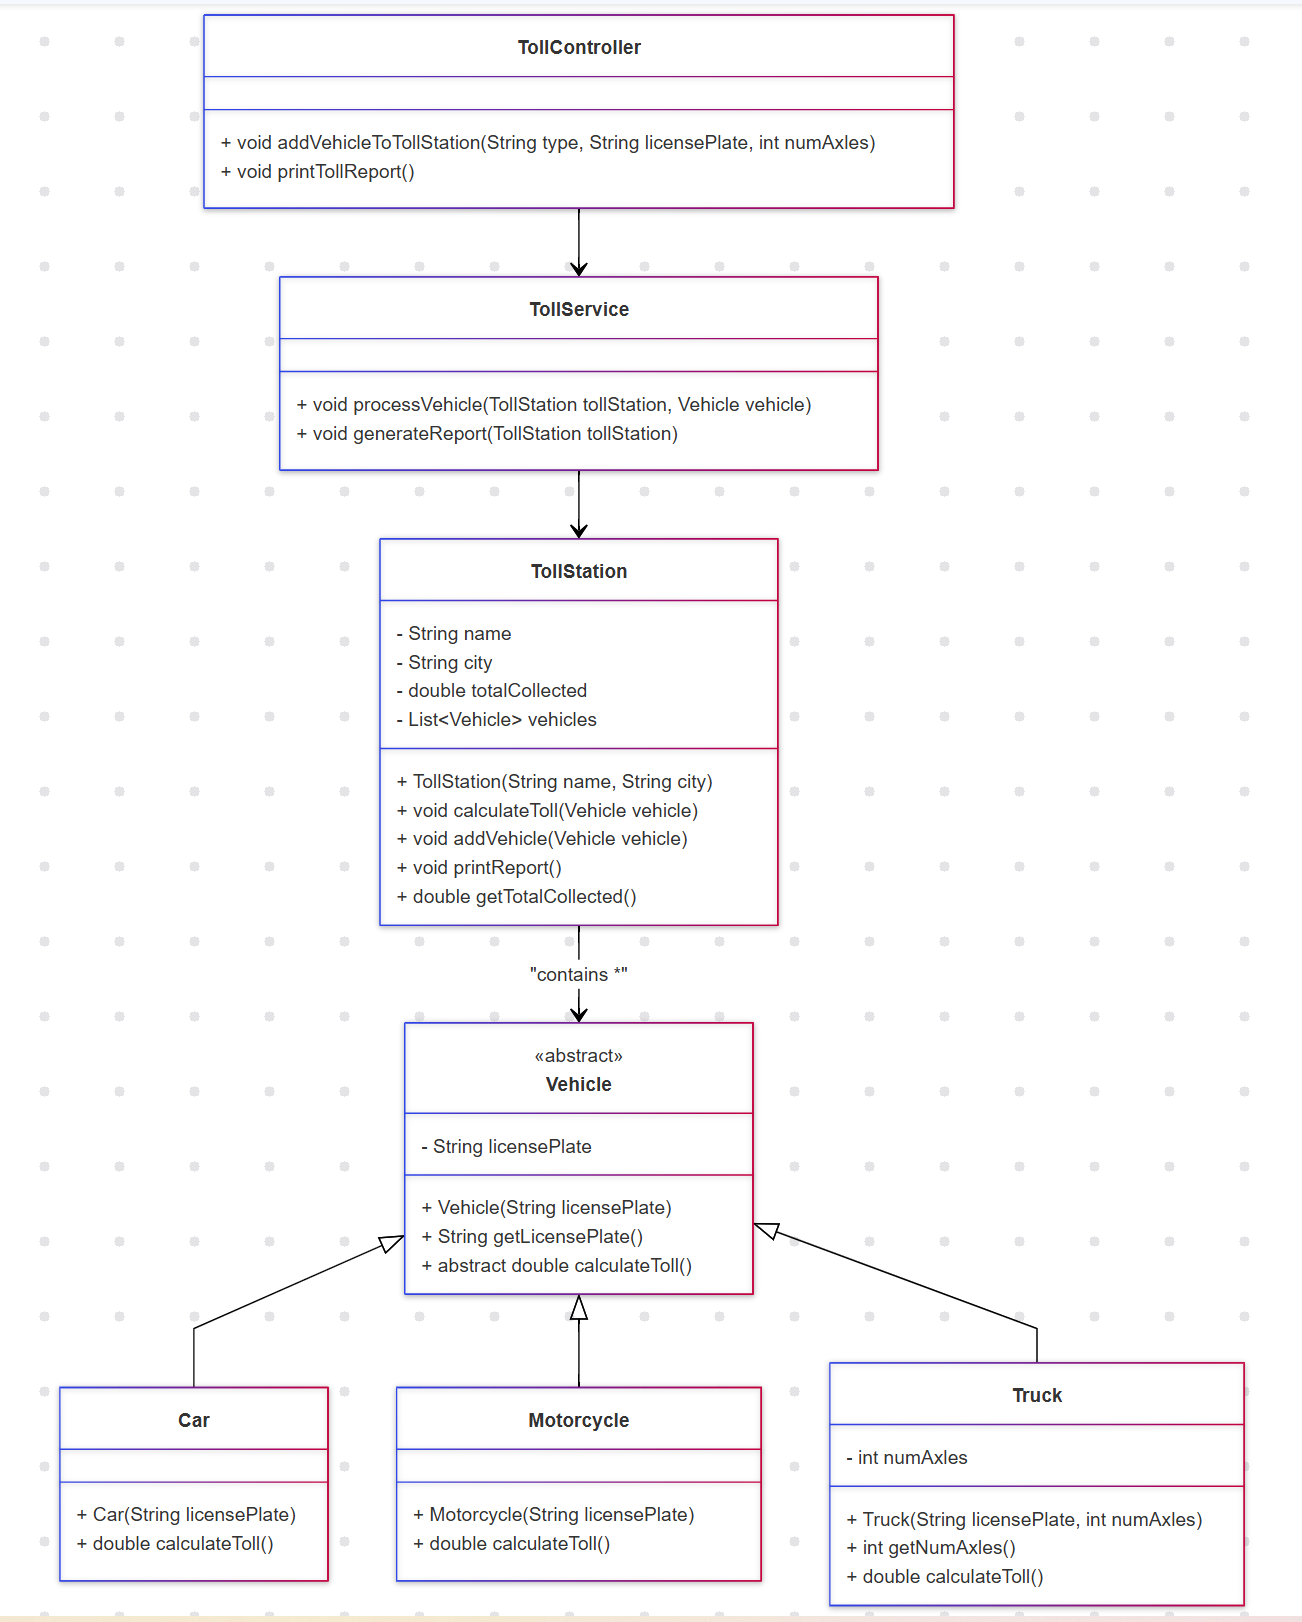
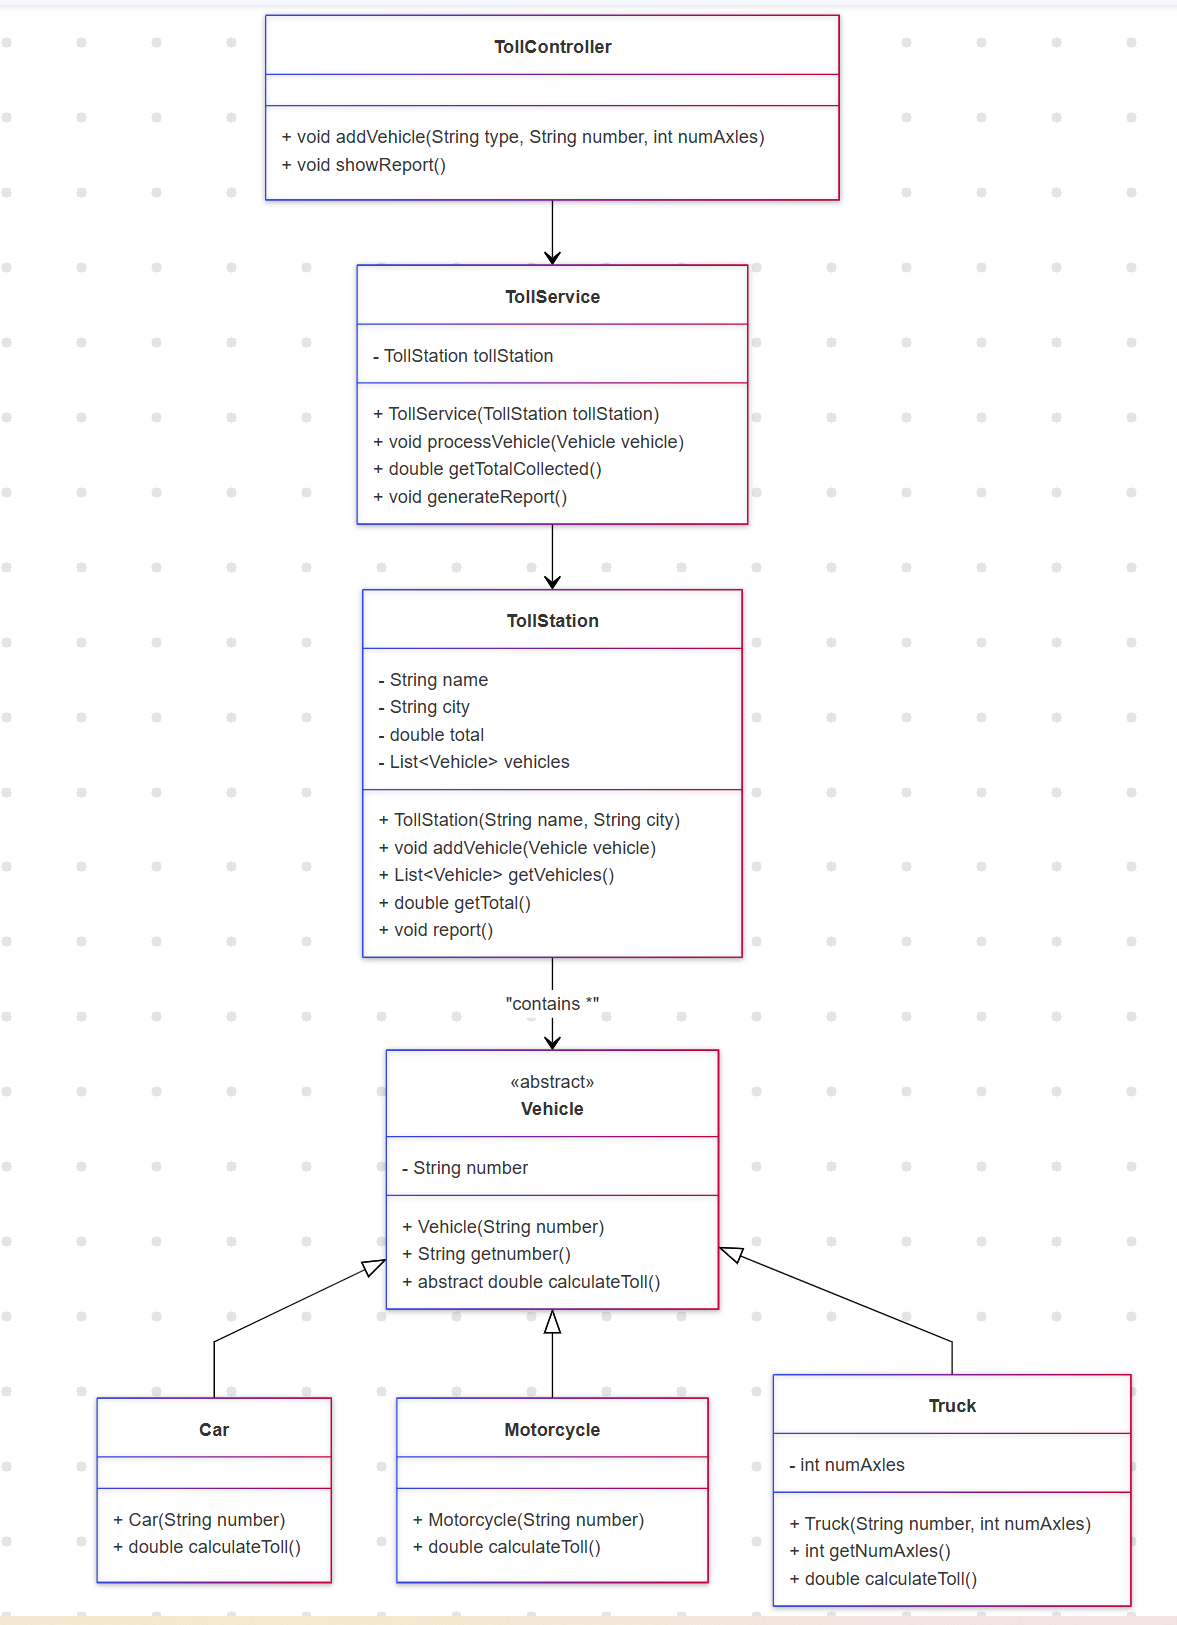
add service and controller + tests, update diagram

diff --git a/src/test/java/dev/nyanchuk/controller/TollControllerTest.java b/src/test/java/dev/nyanchuk/controller/TollControllerTest.java
@@ -1,0 +1,68 @@
+package dev.nyanchuk.controller;
+
+import dev.nyanchuk.model.*;
+import dev.nyanchuk.service.*;
+import org.junit.jupiter.api.BeforeEach;
+import org.junit.jupiter.api.Test;
+
+import static org.junit.jupiter.api.Assertions.*;
+
+public class TollControllerTest {
+
+    private TollStation tollStation;
+    private TollService tollService;
+    private TollController tollController;
+
+    @BeforeEach
+    public void setUp() {
+        tollStation = new TollStation("Highway Toll", "Los Angeles");
+        tollService = new TollService(tollStation);
+        tollController = new TollController(tollService);
+    }
+
+    @Test
+    public void testAddCar() {
+        tollController.addVehicle("car", "CAR123", 0);
+
+        assertEquals(100.0, tollStation.getTotal());
+        assertEquals(1, tollStation.getVehicles().size());
+        assertEquals("CAR123", tollStation.getVehicles().get(0).getNumber());
+    }
+
+    @Test
+    public void testAddMotorcycle() {
+        tollController.addVehicle("motorcycle", "MOTO456", 0);
+
+        assertEquals(50.0, tollStation.getTotal());
+        assertEquals(1, tollStation.getVehicles().size());
+        assertEquals("MOTO456", tollStation.getVehicles().get(0).getNumber());
+    }
+
+    @Test
+    public void testAddTruck() {
+        tollController.addVehicle("truck", "TRUCK789", 4);
+
+        assertEquals(200.0, tollStation.getTotal());
+        assertEquals(1, tollStation.getVehicles().size());
+        assertEquals("TRUCK789", tollStation.getVehicles().get(0).getNumber());
+    }
+
+    @Test
+    public void testInvalidVehicle() {
+        Exception exception = assertThrows(IllegalArgumentException.class, () -> {
+            tollController.addVehicle("bike", "BIKE001", 0);
+        });
+
+        assertEquals("Unknown vehicle type: bike", exception.getMessage());
+    }
+
+    @Test
+    public void testShowReport() {
+        tollController.addVehicle("car", "CAR001", 0);
+        tollController.addVehicle("motorcycle", "MOTO002", 0);
+
+        tollController.showReport();
+
+        assertEquals(150.0, tollStation.getTotal());
+    }
+}

diff --git a/src/test/java/dev/nyanchuk/service/TollServiceTest.java b/src/test/java/dev/nyanchuk/service/TollServiceTest.java
@@ -1,0 +1,47 @@
+package dev.nyanchuk.service;
+
+import dev.nyanchuk.model.*;
+import org.junit.jupiter.api.BeforeEach;
+import org.junit.jupiter.api.Test;
+
+import static org.junit.jupiter.api.Assertions.*;
+
+public class TollServiceTest {
+
+    private TollStation tollStation;
+    private TollService tollService;
+
+    @BeforeEach
+    public void setUp() {
+        tollStation = new TollStation("Main Gate", "New York");
+        tollService = new TollService(tollStation);
+    }
+
+    @Test
+    public void testProcessVehicle() {
+        Vehicle car = new Car("CAR001");
+        tollService.processVehicle(car);
+
+        assertEquals(100.0, tollService.getTotalCollected());
+        assertEquals(1, tollStation.getVehicles().size());
+        assertEquals(car, tollStation.getVehicles().get(0));
+    }
+
+    @Test
+    public void testTotalCollected() {
+        tollService.processVehicle(new Car("CAR001"));
+        tollService.processVehicle(new Motorcycle("MOTO001"));
+        tollService.processVehicle(new Truck("TRUCK001", 3));
+
+        assertEquals(300.0, tollService.getTotalCollected());
+    }
+
+    @Test
+    public void testGenerateReport() {
+        tollService.processVehicle(new Car("CAR001"));
+        tollService.processVehicle(new Motorcycle("MOTO001"));
+        tollService.generateReport();
+
+        assertEquals(150.0, tollService.getTotalCollected());
+    }
+}

diff --git a/src/main/java/dev/nyanchuk/controller/TollController.java b/src/main/java/dev/nyanchuk/controller/TollController.java
@@ -1,0 +1,34 @@
+package dev.nyanchuk.controller;
+
+import dev.nyanchuk.model.*;
+import dev.nyanchuk.service.*;
+
+public class TollController {
+    private final TollService tollService;
+
+    public TollController(TollService tollService) {
+        this.tollService = tollService;
+    }
+
+    public void addVehicle(String type, String number, int axles) {
+        Vehicle vehicle;
+        switch (type.toLowerCase()) {
+            case "car":
+                vehicle = new Car(number);
+                break;
+            case "motorcycle":
+                vehicle = new Motorcycle(number);
+                break;
+            case "truck":
+                vehicle = new Truck(number, axles);
+                break;
+            default:
+                throw new IllegalArgumentException("Unknown vehicle type: " + type);
+        }
+        tollService.processVehicle(vehicle);
+    }
+
+    public void showReport() {
+        tollService.generateReport();
+    }
+}

diff --git a/src/main/java/dev/nyanchuk/service/TollService.java b/src/main/java/dev/nyanchuk/service/TollService.java
@@ -1,0 +1,23 @@
+package dev.nyanchuk.service;
+
+import dev.nyanchuk.model.*;
+
+public class TollService {
+    private final TollStation tollStation;
+
+    public TollService(TollStation tollStation) {
+        this.tollStation = tollStation;
+    }
+
+    public void processVehicle(Vehicle vehicle) {
+        tollStation.addVehicle(vehicle);
+    }
+
+    public double getTotalCollected() {
+        return tollStation.getTotal();
+    }
+
+    public void generateReport() {
+        tollStation.report();
+    }
+}
